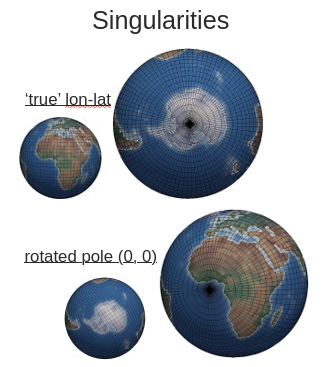
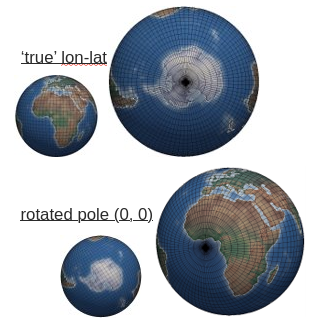
fix figures

diff --git a/source/mesh_overview/unstructured_introduction.rst b/source/mesh_overview/unstructured_introduction.rst
@@ -94,8 +94,8 @@ LFRic Atmosphere uses a cubed sphere mesh. Meshes are named after the number cel
 
 .. video:: /_static/mesh_animation.mp4
    :loop:
-
-*Visualisation of a C16 mesh and how the mesh on a cube is projected to a sphere.*
+   :align: center
+   :caption: Visualisation of a C16 mesh and how the mesh on a cube is projected to a sphere.
 
 The used projection of squares on a cube surface to a sphere causes that mesh sizes have different lengths in km. Representative length scales for mesh resolutions are given in the table below.
 

diff --git a/source/mesh_overview/structured_overview.rst b/source/mesh_overview/structured_overview.rst
@@ -51,7 +51,7 @@ While structured grids work well in many cases, they do have some limitations:
    The structured grid approach is less flexible in handling complex geometries and topologies. When trying to represent regions of interest that do not align well with the grid, or when working with more complex meshes, structured grids fall short.
 
 How to address these challenges?
--------------------------------
+---------------------------------
 Unstructured meshes overcome issues like singularities. One example is the cubed-sphere which consists of dividing the Earth's surface into six square faces, which are then mapped onto a sphere. 
 This approach removes polar singularities and provides an even distribution of data points, preventing excessive compression near the poles, leading to more accurate and stable computations.
 However, it brings new challenges in efficiently organising and representing the data, as assigning a 2-dimensional format can be difficult due to its non-standard layout. 